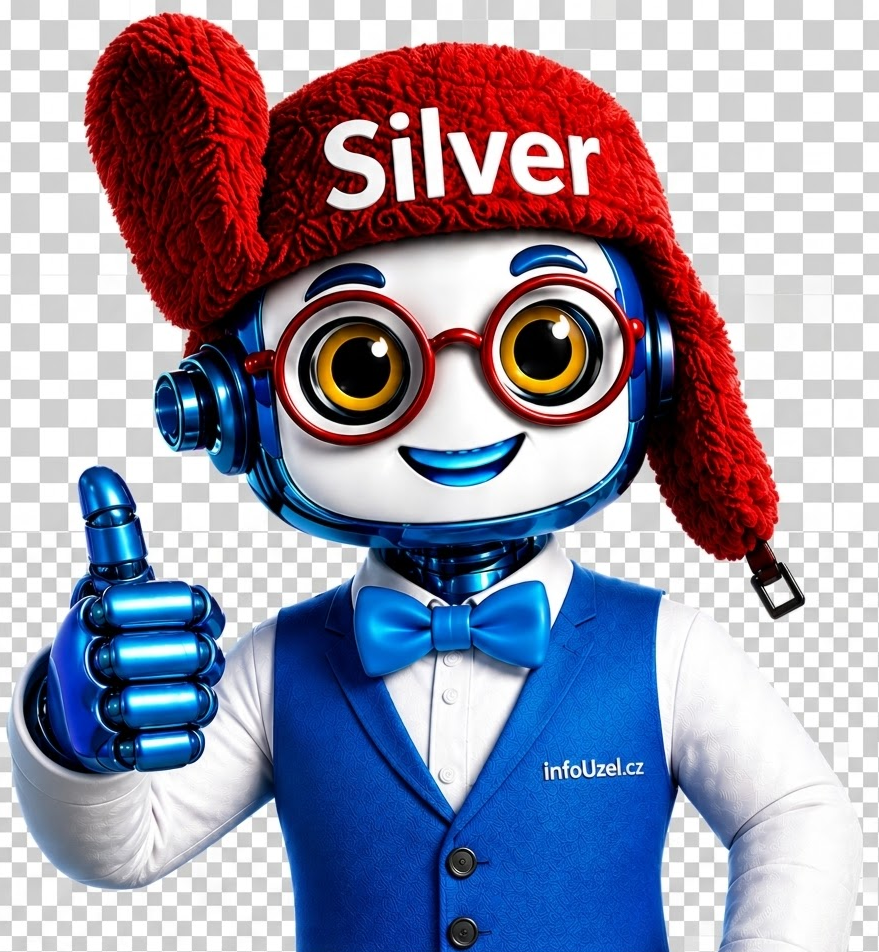
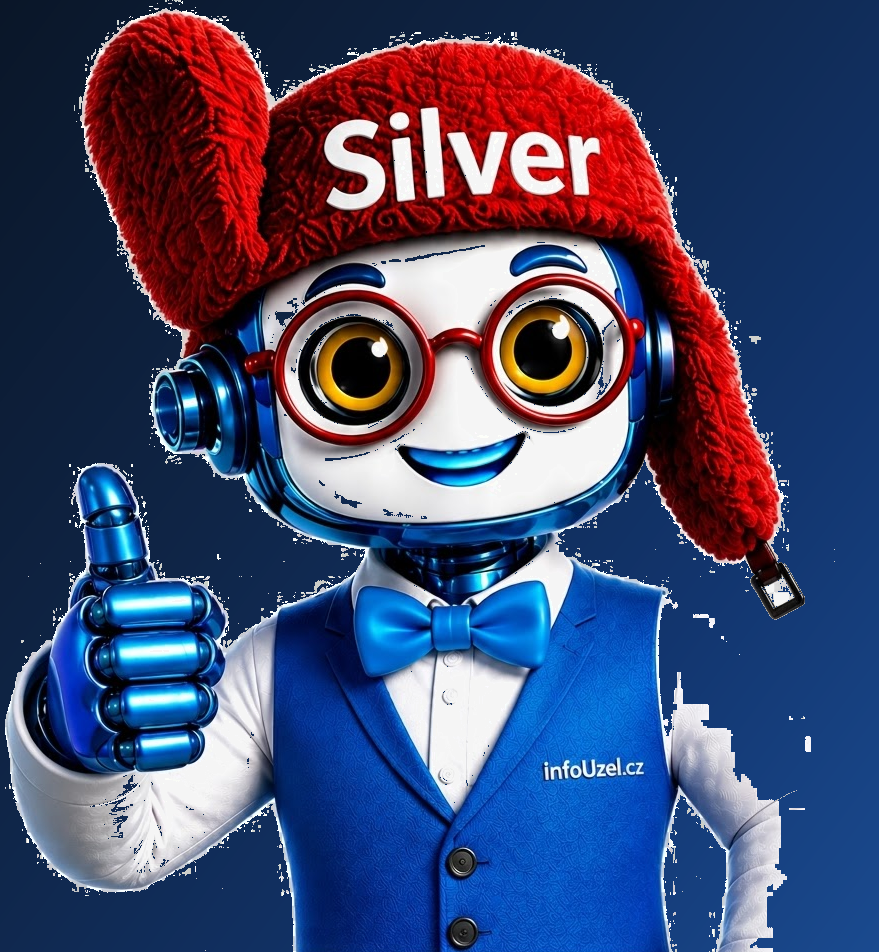
Mobile/Tablet: Silver premium blue UI hotfix (#6621)
* style: Silver premium blue bubble and hero bg on mobile/tablet

* fix: remove remaining checkerboard pixels from Silver hero image

diff --git a/projects/index.html b/projects/index.html
@@ -190,18 +190,18 @@ font-src 'self' data:;
         #iuSilverHeroPremium .iu-hero-copy{min-width:0;display:flex;flex-direction:column;align-items:stretch;justify-content:flex-start!important;gap:6px;box-sizing:border-box;margin:0;padding:6px 0 0!important;align-self:start!important}
         #iuSilverHeroPremium .iu-hero-silverTitle--static,#iuSilverHeroPremium .iu-hero-silverSub--static{display:none!important}
         #iuSilverHeroPremium .silver-speech-row{display:flex;flex-direction:column;align-items:stretch;justify-content:flex-end;min-width:0;max-width:100%;width:100%;box-sizing:border-box;margin:10px 0 0;padding:0;height:calc(2 * 1.36 * clamp(13px,3.15vw,15px) + 20px);min-height:calc(2 * 1.36 * clamp(13px,3.15vw,15px) + 20px);max-height:calc(2 * 1.36 * clamp(13px,3.15vw,15px) + 20px);overflow:visible;flex-shrink:0}
-        #iuSilverHeroPremium .silver-speech-bubble{position:relative;display:inline-block;align-self:flex-start;flex-shrink:0;min-width:0;max-width:100%;width:max-content;box-sizing:border-box;margin:0;margin-left:calc(-2px - max(0px,42cqw - 134px));padding:10px 12px;border-radius:14px;border:2px solid rgba(167,139,250,.72);background:linear-gradient(165deg,rgba(26,22,62,.96) 0%,rgba(45,38,110,.94) 52%,rgba(55,48,130,.92) 100%);box-shadow:0 0 18px rgba(139,92,246,.42),0 0 6px rgba(124,58,237,.35),0 4px 16px rgba(0,0,0,.28),inset 0 1px 0 rgba(255,255,255,.14)}
-        #iuSilverHeroPremium .silver-speech-tail{position:absolute;left:-8px;top:58%;transform:translateY(-50%);width:0;height:0;border-top:7px solid transparent;border-bottom:7px solid transparent;border-right:8px solid rgba(45,38,110,.94);filter:drop-shadow(-1px 0 3px rgba(139,92,246,.35));pointer-events:none}
+        #iuSilverHeroPremium .silver-speech-bubble{position:relative;display:inline-block;align-self:flex-start;flex-shrink:0;min-width:0;max-width:100%;width:max-content;box-sizing:border-box;margin:0;margin-left:calc(-2px - max(0px,42cqw - 134px));padding:10px 12px;border-radius:14px;border:2px solid rgba(96,165,250,.72);background:linear-gradient(165deg,rgba(7,16,36,.98) 0%,rgba(12,30,62,.96) 38%,rgba(15,45,95,.94) 62%,rgba(20,58,115,.92) 100%);box-shadow:0 0 18px rgba(37,99,235,.42),0 0 6px rgba(59,130,246,.35),0 4px 16px rgba(0,0,0,.28),inset 0 1px 0 rgba(194,232,255,.18),inset 0 -1px 0 rgba(15,37,71,.35)}
+        #iuSilverHeroPremium .silver-speech-tail{position:absolute;left:-8px;top:58%;transform:translateY(-50%);width:0;height:0;border-top:7px solid transparent;border-bottom:7px solid transparent;border-right:8px solid rgba(15,37,71,.94);filter:drop-shadow(-1px 0 3px rgba(37,99,235,.35));pointer-events:none}
         #iuSilverHeroPremium .silver-speech-text{margin:0;padding:0;font-size:clamp(13px,3.15vw,15px)!important;line-height:1.36!important;font-weight:500!important;letter-spacing:-.01em!important;color:rgba(248,250,252,.96)!important;overflow-wrap:anywhere!important;word-break:break-word!important;transition:opacity .42s ease;opacity:1}
         #iuSilverHeroPremium .silver-speech-text.silver-speech-text--fading{opacity:0}
         @media (prefers-reduced-motion:reduce){#iuSilverHeroPremium .silver-speech-text{transition:none!important}}
         #iuSilverHeroPremium .silver-privacy-line{display:block!important;margin:0!important;padding:0!important;font-size:clamp(10.5px,3vw,12px)!important;line-height:1.18!important;font-weight:400!important;letter-spacing:0!important;color:rgba(226,232,240,.78)!important;overflow-wrap:anywhere!important;word-break:break-word!important;white-space:normal!important}
         #iuSilverHeroPremium .silver-privacy-line--1{margin-top:4px!important}
         #iuSilverHeroPremium .silver-privacy-line--2{margin-top:1px!important}
-        .iu-hero-figure{min-width:0;min-height:140px;margin:0!important;padding:0;width:100%;max-width:100%;display:flex;align-items:flex-end!important;justify-content:flex-start;box-sizing:border-box;height:auto;max-height:none;position:relative;align-self:stretch!important}
-        #iuSilverHeroPremium .iu-hero-figure picture{display:block;max-width:100%;line-height:0}
+        .iu-hero-figure{min-width:0;min-height:140px;margin:0!important;padding:0;width:100%;max-width:100%;display:flex;align-items:flex-end!important;justify-content:flex-start;box-sizing:border-box;height:auto;max-height:none;position:relative;align-self:stretch!important;background:radial-gradient(ellipse 85% 65% at 18% 22%,rgba(0,92,255,.30) 0%,transparent 52%),radial-gradient(ellipse 70% 55% at 92% 8%,rgba(15,45,110,.32) 0%,transparent 48%),linear-gradient(135deg,#0a1628 0%,#0f2547 38%,#12356e 72%,#1a4a8f 100%)}
+        #iuSilverHeroPremium .iu-hero-figure picture{display:block;max-width:100%;line-height:0;background:radial-gradient(ellipse 85% 65% at 18% 22%,rgba(0,92,255,.30) 0%,transparent 52%),radial-gradient(ellipse 70% 55% at 92% 8%,rgba(15,45,110,.32) 0%,transparent 48%),linear-gradient(135deg,#0a1628 0%,#0f2547 38%,#12356e 72%,#1a4a8f 100%)}
         .iu-hero-figure::after{content:none!important;display:none!important}
-        #iuSilverHeroPremium .iu-hero-figureImg{position:relative;z-index:1;display:block;width:auto!important;height:140px!important;max-height:none!important;max-width:100%;margin:0;padding:0;object-fit:contain;object-position:left bottom;box-sizing:border-box;filter:drop-shadow(0 0 20px rgba(99,102,241,.35))}
+        #iuSilverHeroPremium .iu-hero-figureImg{position:relative;z-index:1;display:block;width:auto!important;height:140px!important;max-height:none!important;max-width:100%;margin:0;padding:0;object-fit:contain;object-position:left bottom;box-sizing:border-box;filter:drop-shadow(0 0 20px rgba(37,99,235,.35))}
         #iuSilverHeroPremium .iu-hero-silverTitle{margin:0!important;padding:0!important;font-size:clamp(1.14rem, calc(1.02rem + 1.65vw), 1.68rem)!important;font-weight:800!important;letter-spacing:-.03em!important;line-height:1.12!important;color:rgba(248,250,252,.98)!important}
         #iuSilverHeroPremium .iu-hero-silverLines{margin:0!important;padding:0!important;display:flex;flex-direction:column;align-items:stretch;gap:3px}
         #iuSilverHeroPremium .iu-hero-silverSub.iu-hero-silverSub--static{display:none!important}
